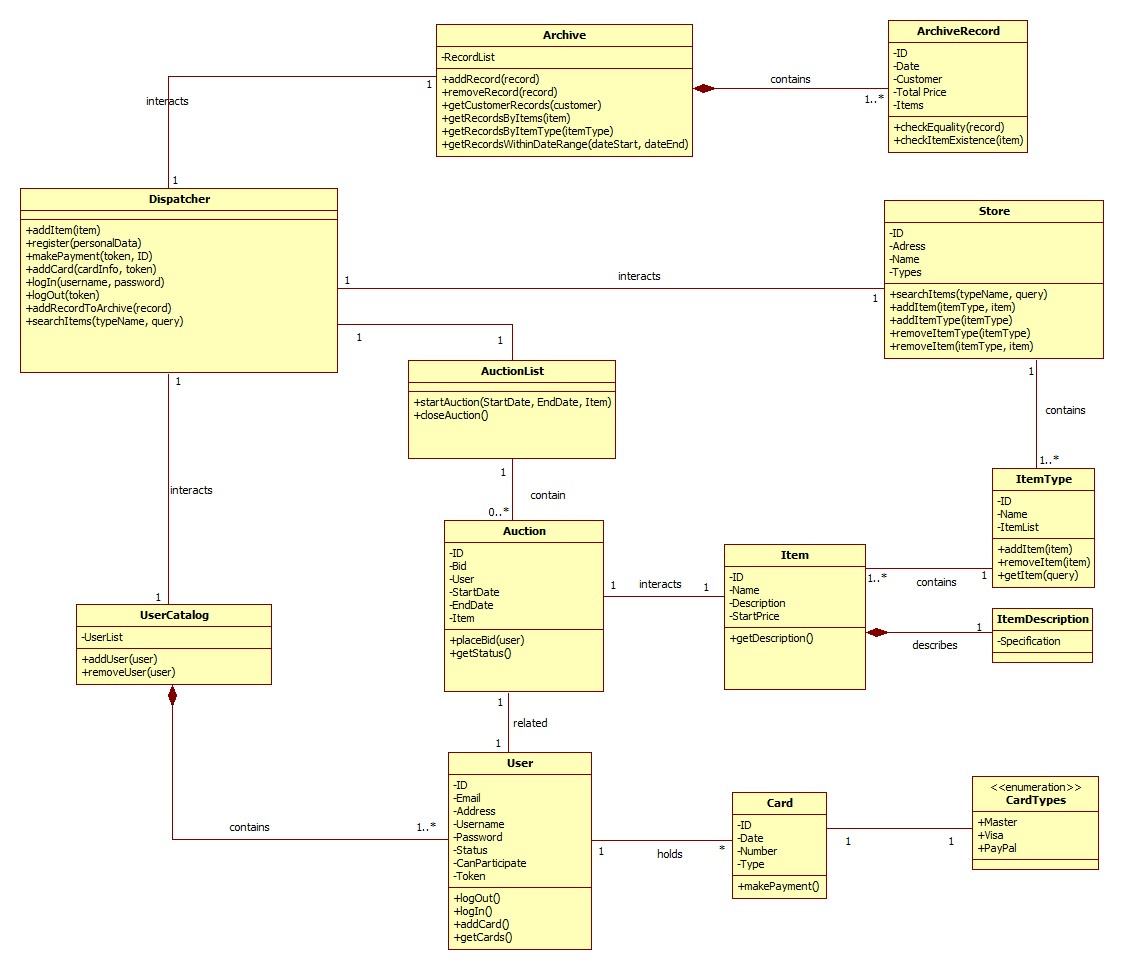
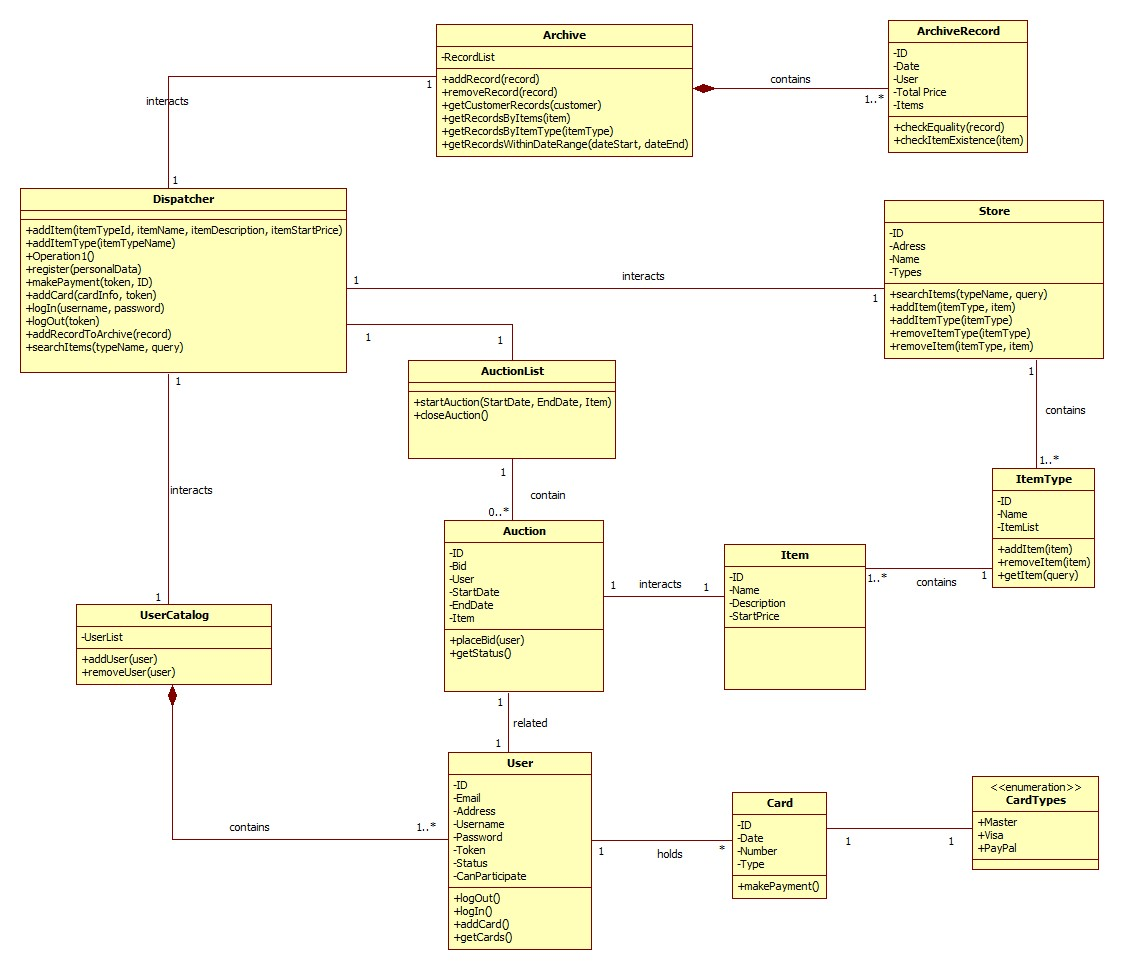
class decriptions

diff --git a/Auction/src/com/mnr/auction/archive/ArchiveRecord.java b/Auction/src/com/mnr/auction/archive/ArchiveRecord.java
@@ -4,4 +4,9 @@ package com.mnr.auction.archive;
  * Created by anhaytananun on 19.09.15.
  */
 public class ArchiveRecord {
+    private int id;
+    private String date;
+    private String customer;
+    private float totalPrice;
+    private String items;
 }

diff --git a/Auction/src/com/mnr/auction/card/Card.java b/Auction/src/com/mnr/auction/card/Card.java
@@ -4,4 +4,13 @@ package com.mnr.auction.card;
  * Created by anhaytananun on 19.09.15.
  */
 public class Card {
+
+    private int id;
+    private String date;
+    private int number;
+    private String type;
+
+    public void makePayement (){
+
+    }
 }

diff --git a/Auction/src/com/mnr/auction/item/item.java b/Auction/src/com/mnr/auction/item/item.java
@@ -4,4 +4,9 @@ package com.mnr.auction.item;
  * Created by Melkon on 19/09/2015.
  */
 public class item {
+    private int id;
+    private String name;
+    private String description;
+    private String startPrice;
+
 }
